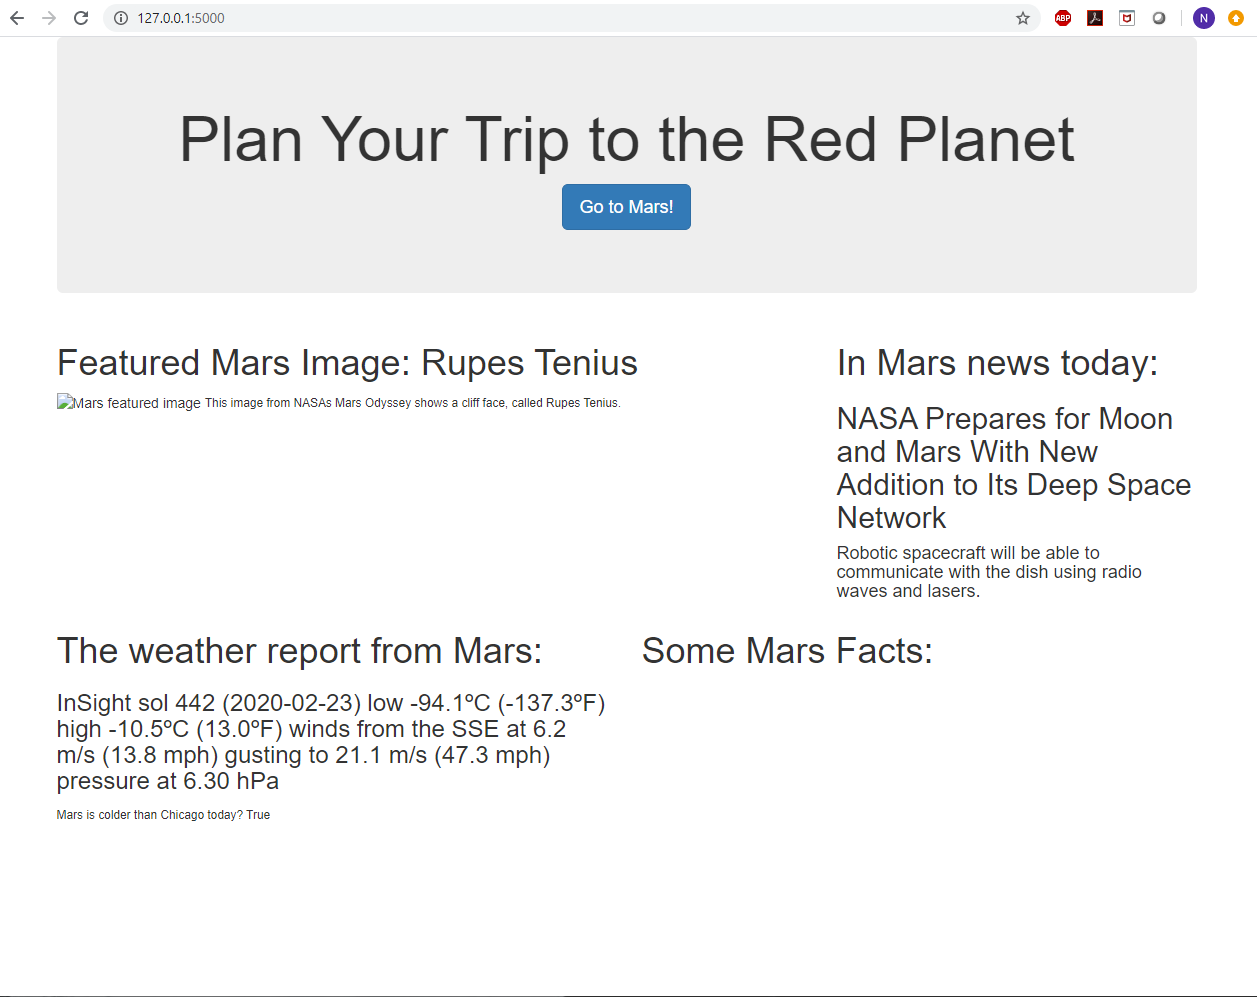
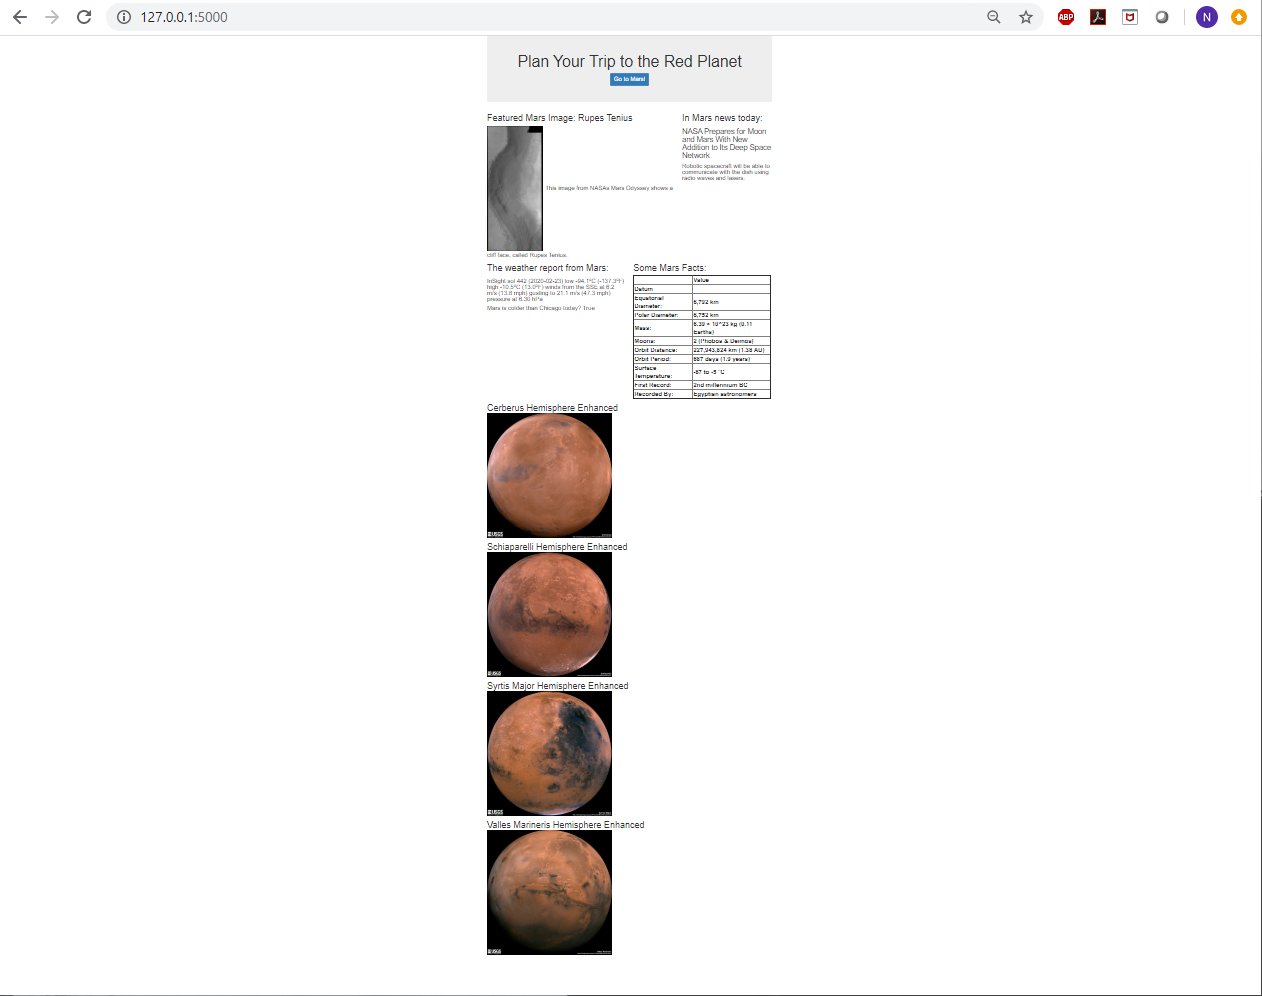
Final product.

diff --git a/Templates/index.html b/Templates/index.html
@@ -26,7 +26,7 @@
         <div class = "row">
             <div class = "col-md-8">
                 <h1>Featured Mars Image: {{ go2mars.image_name }}</h1>
-                <img src="{{ go2mars.image_url }}" alt="Mars featured image">
+                <img src="{{ go2mars.image_url }}" alt="Mars featured image", height="500">
                 <small>{{go2mars.image_desc}}</small>
             </div>
             <div class = "col-md-4">
@@ -44,23 +44,28 @@
             </div>
             <div class = "col-md-6">
                 <h1>Some Mars Facts:</h1>
-                <table class="centered thick-border">
-                    {% for k, v in go2mars.facts.items %}
+                <!-- <table class="centered thick-border">
+                    {% for x in go2mars.facts %}
                         <tr>
-                            <td>{{ k }}</td>
-                            <td>{{ v }}</td>
+                            <td>{{ x }}</td>
+                            <td>{{ y }}</td>
                         </tr>
                     {% endfor %}
-                </table>
-                <!-- <small>{{go2mars.facts}}</small> -->
+                </table>-->
+                <strong>{% autoescape off %}
+                    {{go2mars.facts}}
+                    {% endautoescape %}
+                    <!--https://stackoverflow.com/questions/3206344/passing-html-to-template-using-flask-jinja2-->
+                </strong>
             </div>
 
         </div>
 
         <div class = "row">
             <div class = "col-md-12">
-                {% for key, value in go2mars.hemispheres.items %}
-                {{ key }} : {{ value }}
+                {% for hemispheres in go2mars.hemispheres %}
+                    <h1>{{ hemispheres.title }} <br/>
+                    <img src="{{ hemispheres.img_url }}" alt="Hemisphere", height="500"> </h1>
                 {% endfor %}
             </div>
 

diff --git a/scrape_mars.py b/scrape_mars.py
@@ -63,7 +63,7 @@ def scrape():
     fimage_desc = fancybox['data-description']
     fimage_purl = fancybox['data-fancybox-href']
 
-    fimage_url = f"jpl.nasa.gov{fimage_purl}"
+    fimage_url = f"https://www.jpl.nasa.gov{fimage_purl}"
 
     browser.quit()
 
@@ -125,7 +125,9 @@ def scrape():
     facts = pd.read_html(url_facts)
     facts = facts[0]
 
-    print(facts)
+    facts.columns = ['Datum', 'Value']
+
+    facts = facts.set_index('Datum')
 
     facts_html = facts.to_html()
 
@@ -161,13 +163,13 @@ def scrape():
         spot = soup.find('div', class_='container')
         image = spot.find('img', class_='wide-image')
         url = image['src']
-        url = f"astrogeology.usgs.gov{url}"
+        url = f"https://astrogeology.usgs.gov{url}"
         print(url)
         
-    #     key1 = "title"
-    #     key2 = "img_url"
+        key1 = "title"
+        key2 = "img_url"
         
-        temp_dict.update({title : url})
+        temp_dict.update({key1: title, key2: url})
         
         hemisphere_urls.append(temp_dict)
         
@@ -206,7 +208,7 @@ def scrape():
     go2mars["image_url"] = fimage_url
     go2mars["weather"] = weather
     go2mars["ismarscolder"] = ismarscolder
-    go2mars["facts"] = facts
+    go2mars["facts"] = facts_html
     go2mars["hemispheres"] = hemisphere_urls
 
     return go2mars
